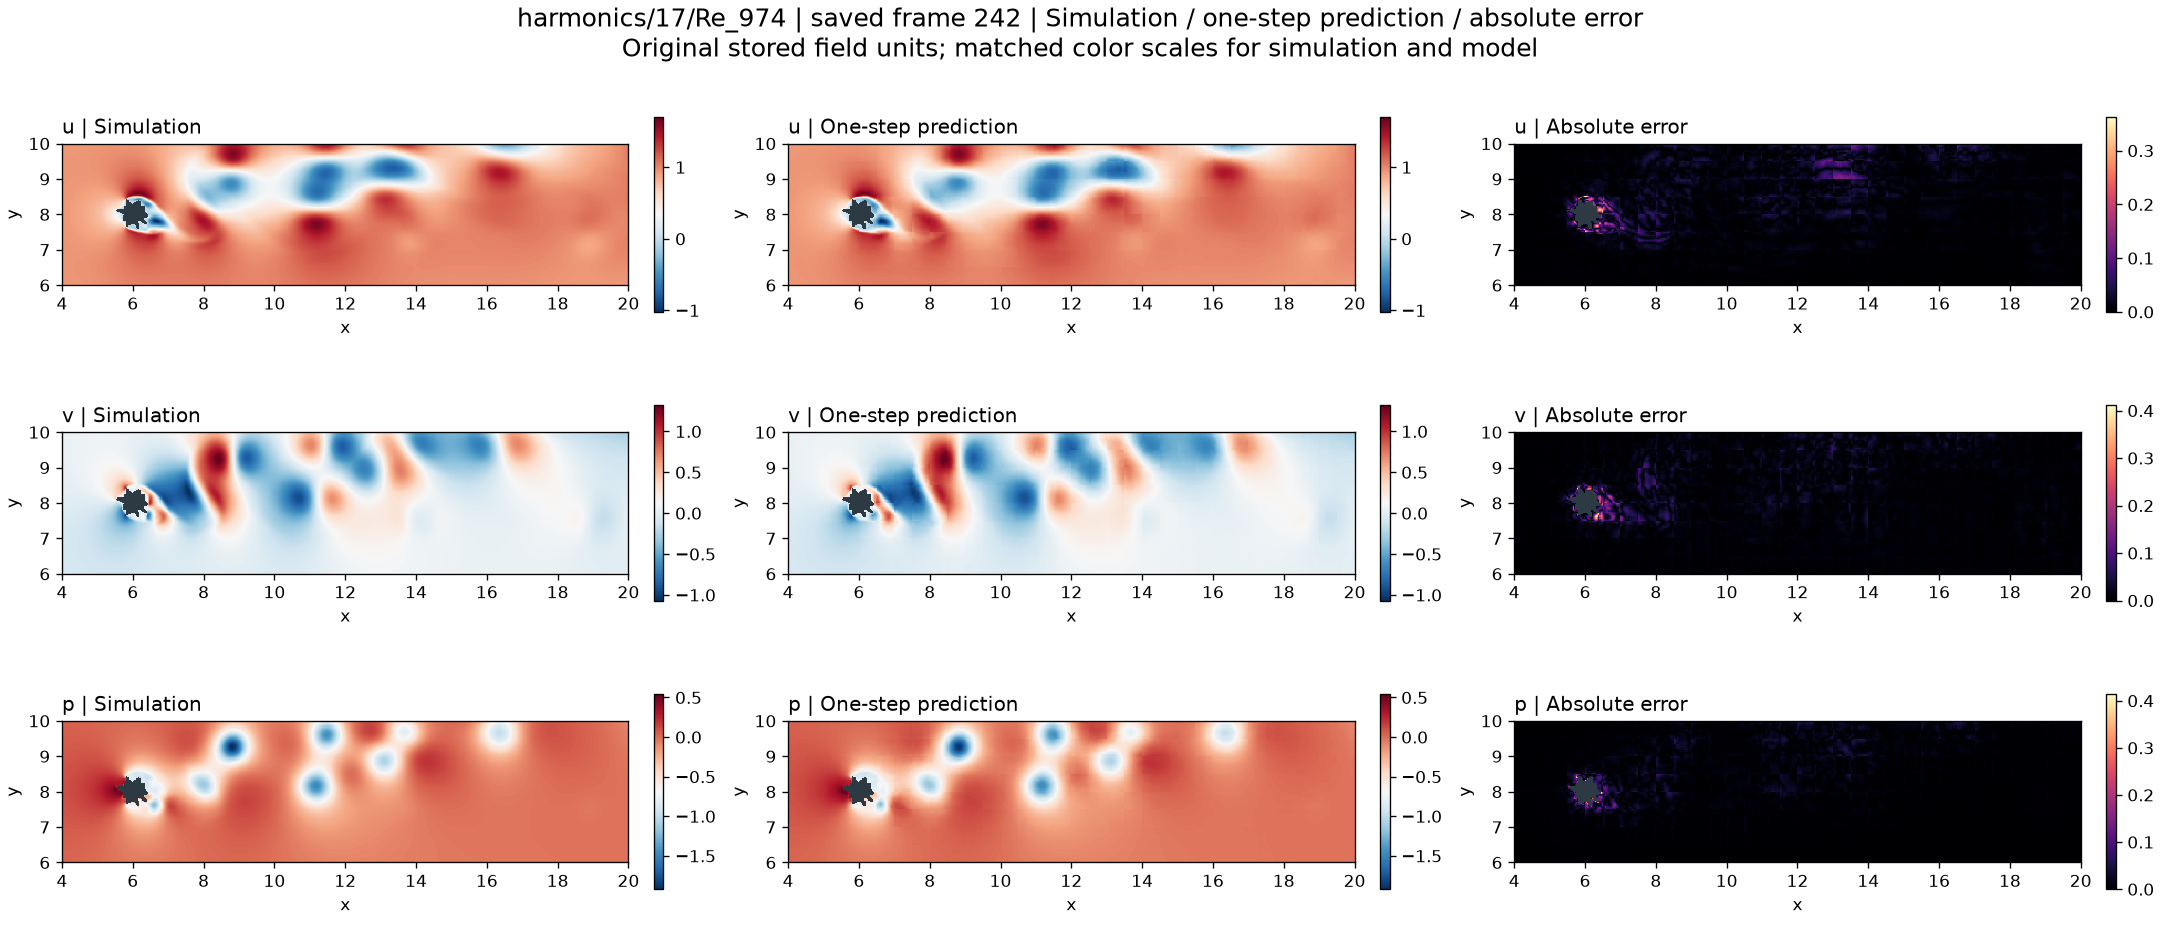
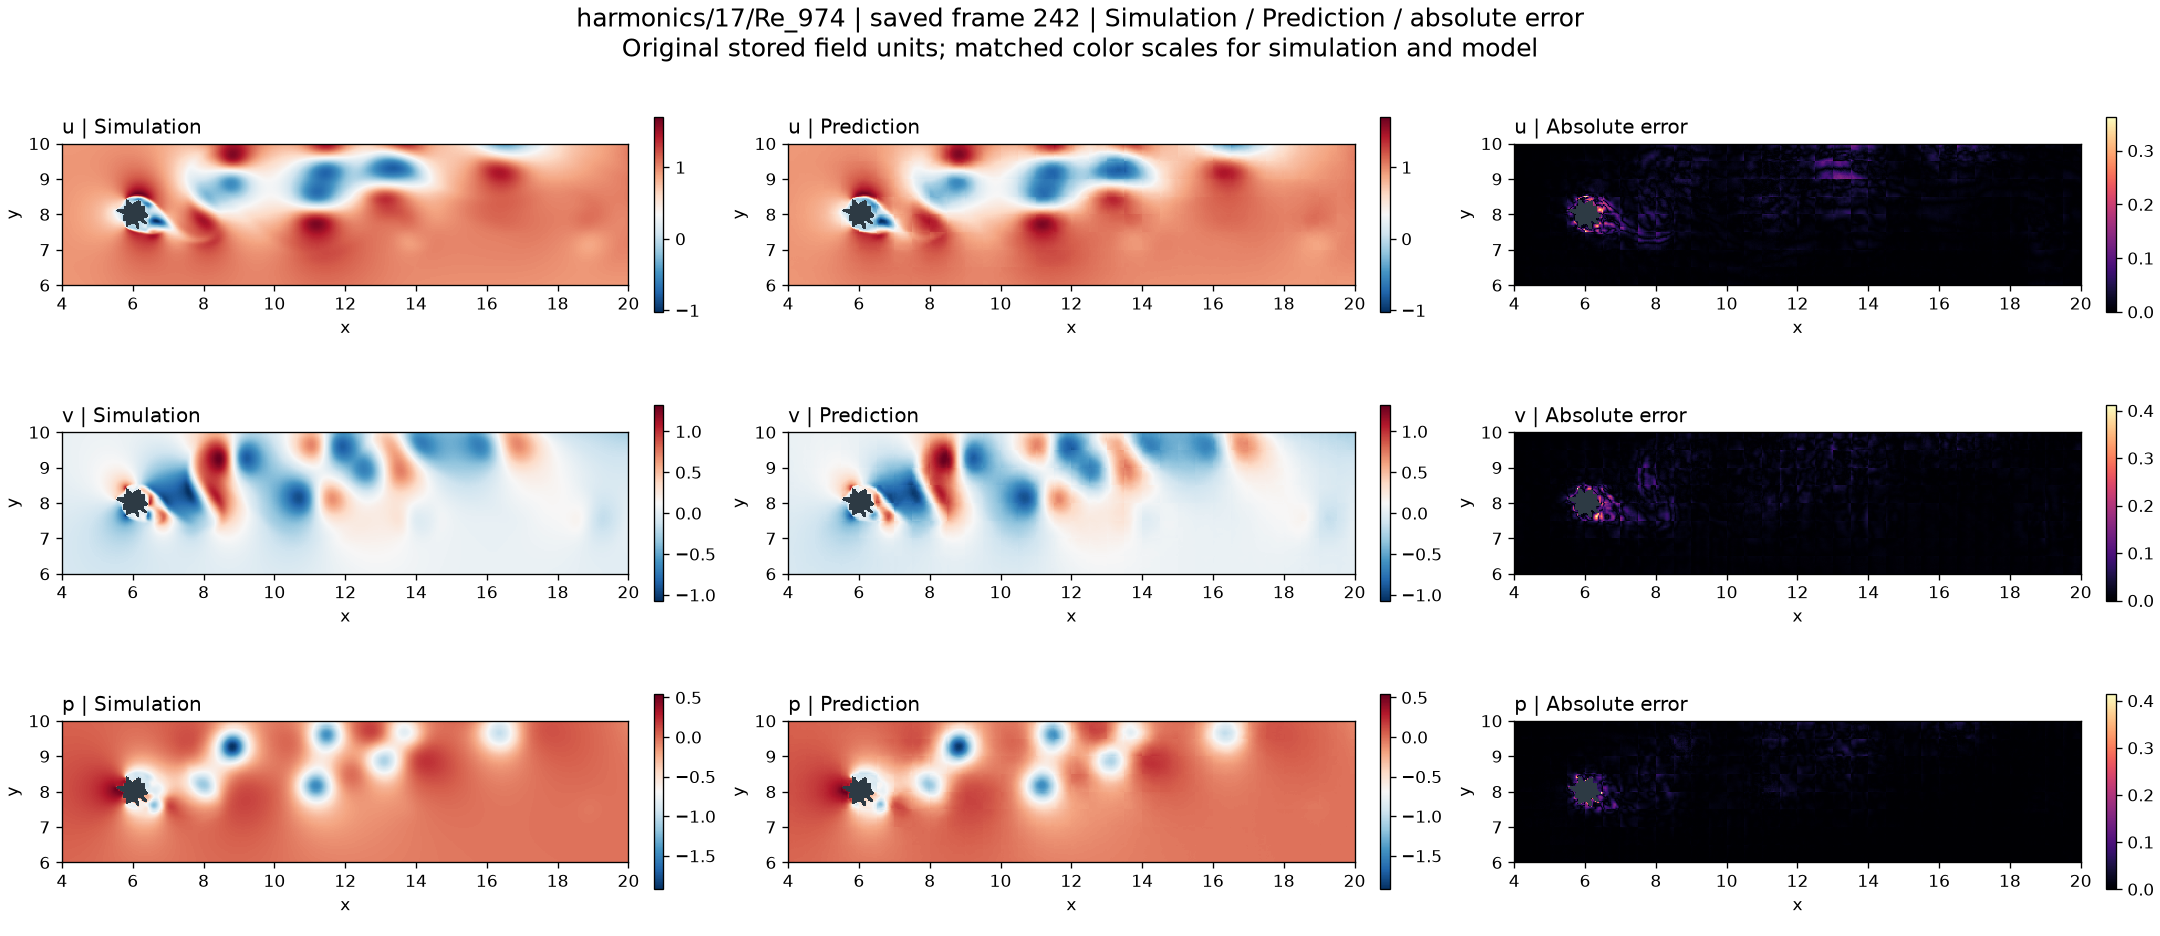
Use Prediction labels in flow comparison figures

diff --git a/scripts/build_flow_gallery.py b/scripts/build_flow_gallery.py
@@ -56,7 +56,7 @@ def scientific_frame(true, model, mask, meta, index, task, limit):
            font=font(19), fill="#c5dee6")
     cmap = plt.get_cmap("RdBu_r")
     for field, y, title in [(true, 132, "SIMULATION"),
-                            (model, 424, "ONE-STEP PREDICTION" if task == "prediction" else "AE RECONSTRUCTION")]:
+                            (model, 424, "PREDICTION" if task == "prediction" else "AE RECONSTRUCTION")]:
         d.text((48, y-33), title, font=font(20, True), fill=NAVY)
         rgb = np.asarray(cmap(np.clip((field+limit)/(2*limit), 0, 1), bytes=True)[..., :3]).copy()
         rgb[~mask] = (45, 58, 68)
@@ -73,7 +73,7 @@ def scientific_frame(true, model, mask, meta, index, task, limit):
         d.text((1053, y), f"{v:.1f}", font=font(14), fill=NAVY)
     d.text((1032, 102), "v", font=font(17, True), fill=NAVY)
     d.line((28, 699, 1072, 699), fill="#d7e4eb", width=1)
-    note = "Simulation vs one-step prediction | 100 frames | 20 fps" if task == "prediction" else "Inputs: geometry, Re + true field at the displayed time"
+    note = "Simulation vs Prediction | 100 frames | 20 fps" if task == "prediction" else "Inputs: geometry, Re + true field at the displayed time"
     d.text((29, 711), note, font=font(17), fill="#536b79")
     return im
 
@@ -96,7 +96,7 @@ def save_gif(frames, path):
 
 def full_comparison(truth, model, mask, meta, task, path):
     fig, axes = plt.subplots(3, 3, figsize=(18, 7.8), layout="constrained")
-    label = "One-step prediction" if task == "prediction" else "AE reconstruction"
+    label = "Prediction" if task == "prediction" else "AE reconstruction"
     for channel, name in enumerate(["u", "v", "p"]):
         a, b = truth[-1,...,channel], model[-1,...,channel]
         lower = float(min(a[mask].min(), b[mask].min()))
@@ -113,7 +113,7 @@ def full_comparison(truth, model, mask, meta, task, path):
             ax.set_title(f"{name} | {title}",loc="left",fontsize=12)
             ax.set_xlabel("x");ax.set_ylabel("y")
             fig.colorbar(pic,ax=ax,shrink=.70,pad=.025)
-    note="Simulation / one-step prediction / absolute error" if task=="prediction" else "Current true field enters reconstruction"
+    note="Simulation / Prediction / absolute error" if task=="prediction" else "Current true field enters reconstruction"
     fig.suptitle(meta["case_id"]+" | saved frame 242 | "+note+"\nOriginal stored field units; matched color scales for simulation and model",fontsize=15)
     fig.savefig(path,dpi=120);plt.close(fig)
 
